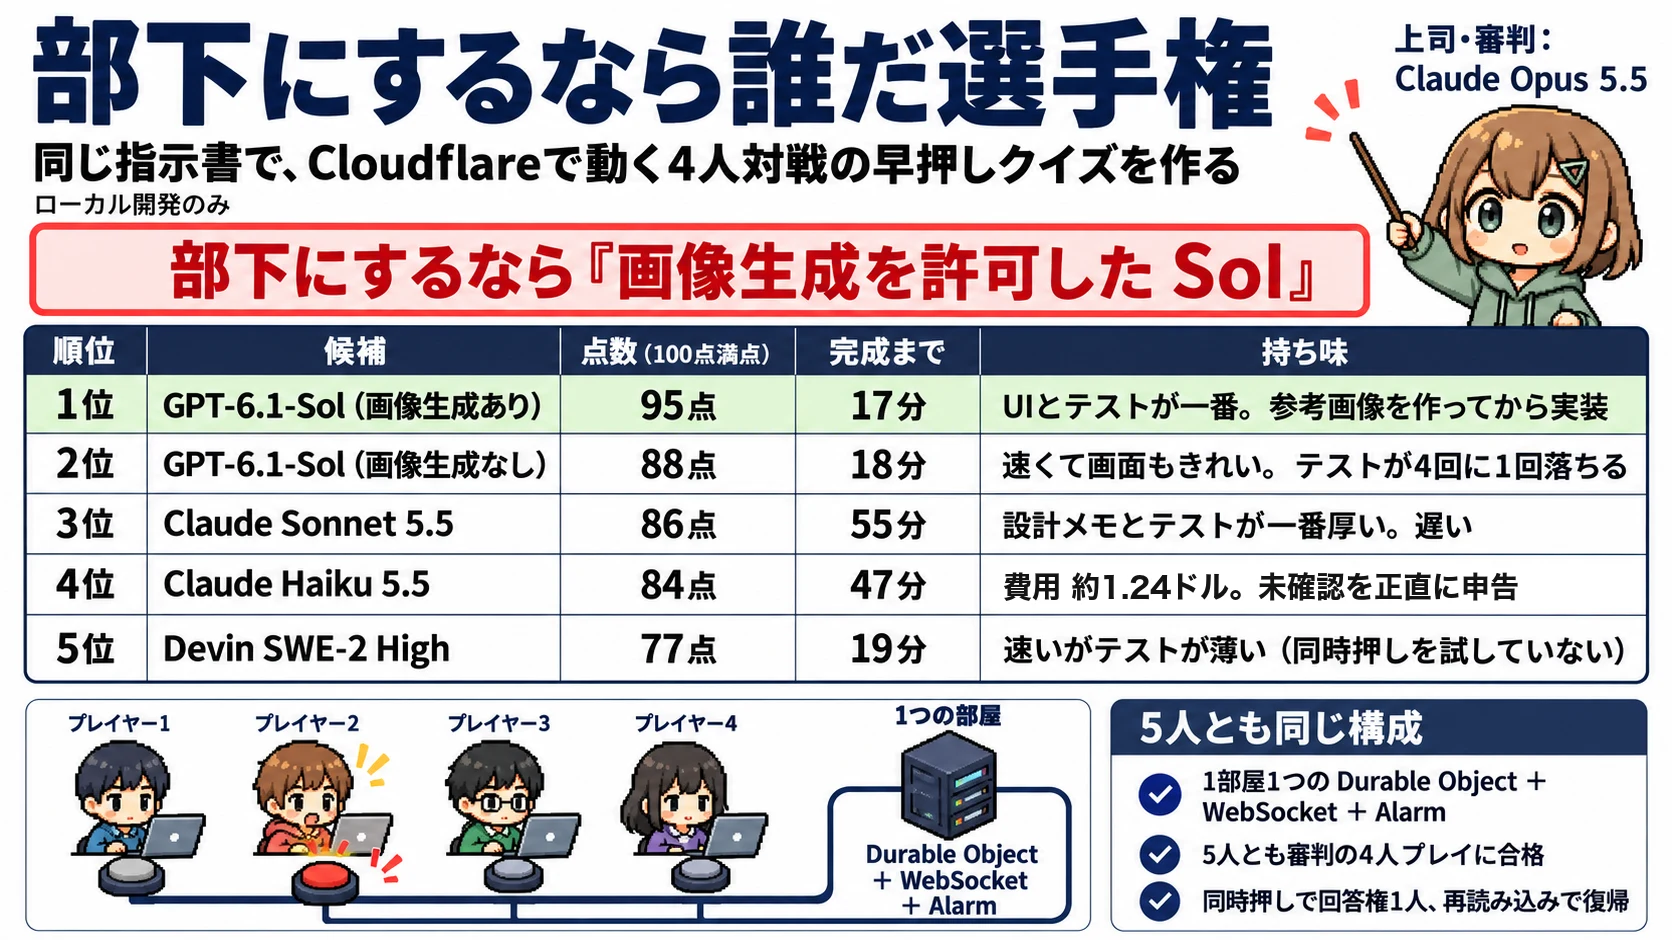
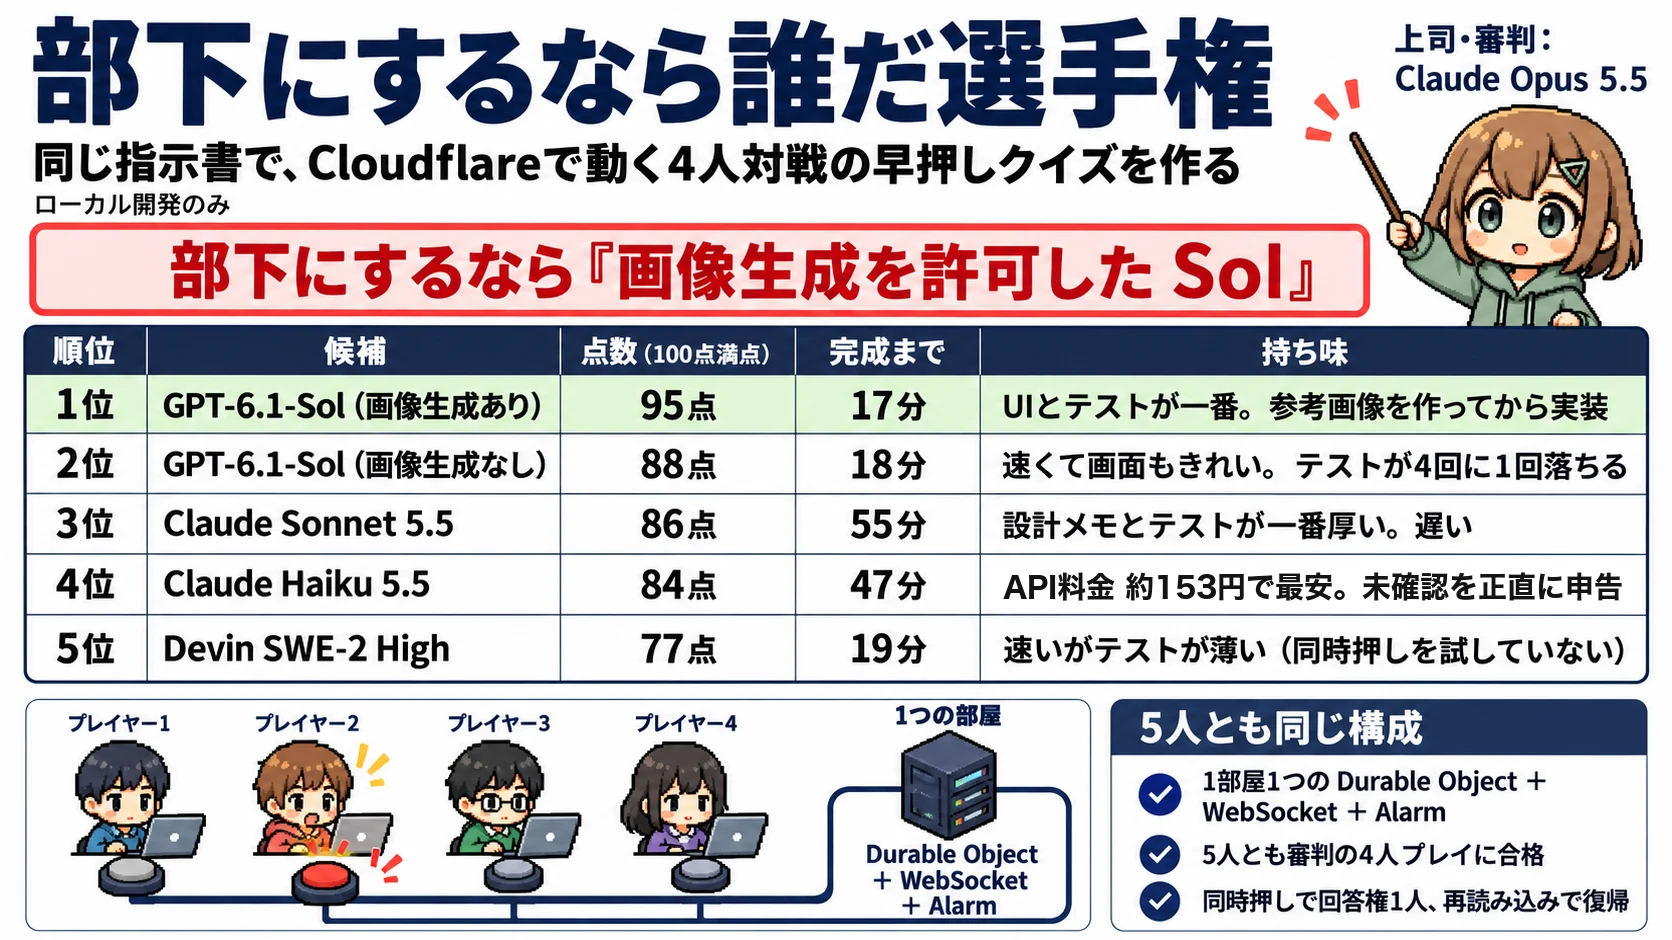
docs: add API cost and token usage to the championship results

Changed region(s): [[0.5909, 0.5862, 0.9641, 0.6479]]

diff --git a/benchmark_sources/subordinate-championship/cost.py b/benchmark_sources/subordinate-championship/cost.py
@@ -1,0 +1,36 @@
+import json,glob,sys
+JPY=158.0
+# USD per 1M tokens: (input, cache_write_5m, cache_read, output, cache_write_1h)
+CL={'claude-sonnet-5-5':[(None,(2,2.5,0.10,10,4))],
+    'claude-haiku-5-5':[(100_000,(0.10,0.125,0.01,0.50,0.20)),(None,(0.50,0.625,0.05,2.50,1.0))],
+    'claude-opus-5-5':[(None,(4,5,0.20,20,8))]}
+def claude(glob_, cut):
+    f=glob.glob(glob_)[0]; seen={}
+    for line in open(f):
+        try:o=json.loads(line)
+        except:continue
+        if o.get('type')!='assistant':continue
+        if cut and o.get('timestamp','')>cut:continue
+        m=o['message']; u=m.get('usage')
+        if u: seen[m.get('id')]=(m.get('model'),u)
+    t={'input':0,'cache_write':0,'cache_read':0,'output':0}; usd=0
+    for mod,u in seen.values():
+        i,w,r,out=u.get('input_tokens',0),u.get('cache_creation_input_tokens',0),u.get('cache_read_input_tokens',0),u.get('output_tokens',0)
+        prompt=i+w+r
+        for lim,p in CL[mod]:
+            if lim is None or prompt<=lim: break
+        cc=u.get('cache_creation') or {}; w1=cc.get('ephemeral_1h_input_tokens',0); w5=w-w1
+        usd+=(i*p[0]+w5*p[1]+w1*p[4]+r*p[2]+out*p[3])/1e6
+        t['input']+=i;t['cache_write']+=w;t['cache_read']+=r;t['output']+=out
+    return t,usd
+def flat(inp,cached,out,p):  # p=(input,cached,output)
+    return ((inp-cached)*p[0]+cached*p[1]+out*p[2])/1e6
+import os
+H=os.path.expanduser('~/.claude/projects/')+'-Users-kazuph-src-github-com-kazuph-buzzer-quiz-contest-'
+rows=[]
+for name,g,cut in [('Sonnet 5.5',H+'sonnet/*.jsonl','2026-10-18T09:15:12.361Z'),('Haiku 5.5',H+'haiku/*.jsonl','2026-10-18T09:08:44.787Z')]+([('Opus 5.5',H+'opus/*.jsonl',sys.argv[1])] if len(sys.argv)>1 else []):
+    t,usd=claude(g,cut)
+    rows.append((name,t['input']+t['cache_write']+t['cache_read'],t['cache_read'],t['output'],usd))
+for name,inp,cached,out,p in [('Sol（なし）',6794104,6612096,45610,(2,0.10,10)),('Sol（あり）',7873318,7680768,45284,(2,0.10,10)),('Devin',6664994,6541278,65391,(3,0.30,15))]:
+    rows.append((name,inp,cached,out,flat(inp,cached,out,p)))
+for r in rows: print(f"{r[0]:12s} 入力 {r[1]/1e6:6.2f}M（うちキャッシュ読み {r[2]/1e6:6.2f}M） 出力 {r[3]/1e3:6.1f}k  ${r[4]:6.2f}  約{r[4]*JPY:5.0f}円")

diff --git a/_posts/2026-10-18-subordinate-championship.md b/_posts/2026-10-18-subordinate-championship.md
@@ -11,7 +11,7 @@ full_ai_model: claude-opus-5-5
 
 <style>
 .bench-wrap { overflow-x: auto; margin: 1rem 0 1.6rem; }
-.bench-wrap table { min-width: 620px; }
+.bench-wrap table { min-width: 600px; }
 .bench-wrap td.num, .bench-wrap th.num { text-align: right; font-variant-numeric: tabular-nums; white-space: nowrap; }
 .bench-wrap tr.top td { font-weight: 700; background: #fff7ed; }
 </style>
@@ -28,18 +28,33 @@ full_ai_model: claude-opus-5-5
 
 <div class="bench-wrap">
 <table>
-<thead><tr><th>順位</th><th>部下候補</th><th class="num">遊び方<br>25</th><th class="num">構成<br>10</th><th class="num">テスト<br>20</th><th class="num">UI<br>20</th><th class="num">報告と仕様<br>15</th><th class="num">速さ<br>10</th><th class="num">合計</th><th class="num">完成まで</th></tr></thead>
+<thead><tr><th>順位</th><th>部下候補</th><th class="num">点数</th><th class="num">完成まで</th><th class="num">API料金</th><th class="num">入力トークン<br>（うちキャッシュ読み）</th><th class="num">出力トークン</th></tr></thead>
 <tbody>
-<tr class="top"><td>1</td><td>Sol（画像生成あり）</td><td class="num">25</td><td class="num">9</td><td class="num">19</td><td class="num">19</td><td class="num">13</td><td class="num">10</td><td class="num">95</td><td class="num">17分</td></tr>
-<tr><td>2</td><td>Sol（画像生成なし）</td><td class="num">25</td><td class="num">7</td><td class="num">16</td><td class="num">18</td><td class="num">12</td><td class="num">10</td><td class="num">88</td><td class="num">18分</td></tr>
-<tr><td>3</td><td>Sonnet 5.5</td><td class="num">25</td><td class="num">10</td><td class="num">19</td><td class="num">16</td><td class="num">12</td><td class="num">4</td><td class="num">86</td><td class="num">55分</td></tr>
-<tr><td>4</td><td>Haiku 5.5</td><td class="num">25</td><td class="num">9</td><td class="num">14</td><td class="num">15</td><td class="num">15</td><td class="num">6</td><td class="num">84</td><td class="num">47分</td></tr>
-<tr><td>5</td><td>Devin SWE-2 High</td><td class="num">25</td><td class="num">8</td><td class="num">11</td><td class="num">12</td><td class="num">12</td><td class="num">9</td><td class="num">77</td><td class="num">19分</td></tr>
+<tr class="top"><td>1</td><td>Sol（画像生成あり）</td><td class="num">95</td><td class="num">17分</td><td class="num">約254円</td><td class="num">787万（768万）</td><td class="num">4.5万</td></tr>
+<tr><td>2</td><td>Sol（画像生成なし）</td><td class="num">88</td><td class="num">18分</td><td class="num">約234円</td><td class="num">679万（661万）</td><td class="num">4.6万</td></tr>
+<tr><td>3</td><td>Sonnet 5.5</td><td class="num">86</td><td class="num">55分</td><td class="num">約429円</td><td class="num">944万（922万）</td><td class="num">9.1万</td></tr>
+<tr><td>4</td><td>Haiku 5.5</td><td class="num">84</td><td class="num">47分</td><td class="num">約153円</td><td class="num">1,014万（988万）</td><td class="num">12.7万</td></tr>
+<tr><td>5</td><td>Devin SWE-2 High</td><td class="num">77</td><td class="num">19分</td><td class="num">約524円</td><td class="num">666万（654万）</td><td class="num">6.5万</td></tr>
 </tbody>
 </table>
 </div>
 
 ![5人のアプリの出題中の画面（PC幅）。上段左から Sonnet 5.5、Haiku 5.5、Sol（画像生成なし）、下段左から Sol（画像生成あり）、Devin SWE-2 High](/images/posts/subordinate-championship/question-pc.webp)
+
+点数の内訳は次のとおりです。
+
+<div class="bench-wrap">
+<table>
+<thead><tr><th>部下候補</th><th class="num">遊び方<br>25</th><th class="num">構成<br>10</th><th class="num">テスト<br>20</th><th class="num">UI<br>20</th><th class="num">報告と仕様<br>15</th><th class="num">速さ<br>10</th></tr></thead>
+<tbody>
+<tr><td>Sol（画像生成あり）</td><td class="num">25</td><td class="num">9</td><td class="num">19</td><td class="num">19</td><td class="num">13</td><td class="num">10</td></tr>
+<tr><td>Sol（画像生成なし）</td><td class="num">25</td><td class="num">7</td><td class="num">16</td><td class="num">18</td><td class="num">12</td><td class="num">10</td></tr>
+<tr><td>Sonnet 5.5</td><td class="num">25</td><td class="num">10</td><td class="num">19</td><td class="num">16</td><td class="num">12</td><td class="num">4</td></tr>
+<tr><td>Haiku 5.5</td><td class="num">25</td><td class="num">9</td><td class="num">14</td><td class="num">15</td><td class="num">15</td><td class="num">6</td></tr>
+<tr><td>Devin SWE-2 High</td><td class="num">25</td><td class="num">8</td><td class="num">11</td><td class="num">12</td><td class="num">12</td><td class="num">9</td></tr>
+</tbody>
+</table>
+</div>
 
 5人とも動くアプリを出し、構成も全員が同じでした。1部屋に1つの [Durable Object](https://developers.cloudflare.com/durable-objects/) を置き、[WebSocket Hibernation API](https://developers.cloudflare.com/durable-objects/best-practices/websockets/) でつなぎ、10秒・20秒の期限を [Alarm](https://developers.cloudflare.com/durable-objects/api/alarms/) で進める形です。Durable Object は同じ部屋あてのメッセージを1つずつ処理するので、4人が同時に押しても回答権は1人に決まります。
 
@@ -63,7 +78,7 @@ full_ai_model: claude-opus-5-5
 
 ### Haiku 5.5
 
-費用は約1.24ドルで、Sonnet 5.5（約2.91ドル）の半分以下です。実時間の10秒待ちや回線断のテストは書いていません。その代わり、確かめていない項目を「一部達成」として自分から全部書き出していました。キーボード入力を待つコマンドで13分止まったのが速さの減点です。
+API料金は約153円で、Sonnet 5.5（約429円）の半分以下です。実時間の10秒待ちや回線断のテストは書いていません。その代わり、確かめていない項目を「一部達成」として自分から全部書き出していました。キーボード入力を待つコマンドで13分止まったのが速さの減点です。
 
 ### Devin SWE-2 High
 
@@ -73,7 +88,7 @@ full_ai_model: claude-opus-5-5
 
 ## 比較の条件
 
-5人に同じ指示書（[`TASK.md`](https://github.com/kazuph/kazuph.github.io/tree/master/benchmark_sources/subordinate-championship/sonnet/TASK.md)）を渡し、同時に開始しました。課題と画像生成ありの Sol を加えることは kazuph の指定で、指示書の細部と採点の観点は筆者が決めました。各1回の実行で、UI と構成の点数は筆者の主観です。5人のソースと審判のスクリプトは [`benchmark_sources/subordinate-championship/`](https://github.com/kazuph/kazuph.github.io/tree/master/benchmark_sources/subordinate-championship) にあります。
+5人に同じ指示書（[`TASK.md`](https://github.com/kazuph/kazuph.github.io/tree/master/benchmark_sources/subordinate-championship/sonnet/TASK.md)）を渡し、同時に開始しました。課題と画像生成ありの Sol を加えることは kazuph の指定で、指示書の細部と採点の観点は筆者が決めました。各1回の実行で、UI と構成の点数は筆者の主観です。API料金は、作業の開始から完了報告を送るまでのトークン数に各社の API 定価を掛け、1ドル158円で換算しました（[Claude](https://platform.claude.com/docs/en/about-claude/pricing)、[GPT-6.1-Sol](https://openai.com/index/introducing-gpt-6-1-sol/)、[SWE-2](https://docs.devin.ai/desktop/models)）。画像生成ありの Sol の画像生成4枚の料金は含みません。5人のソースと審判のスクリプトは [`benchmark_sources/subordinate-championship/`](https://github.com/kazuph/kazuph.github.io/tree/master/benchmark_sources/subordinate-championship) にあります。
 
 ## おわりに
 
